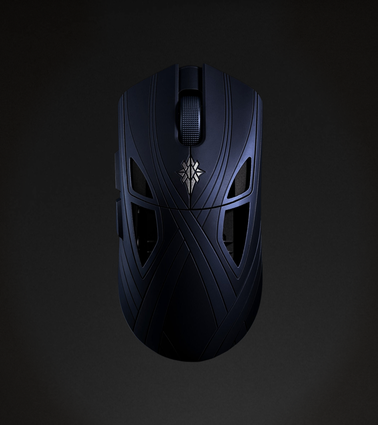
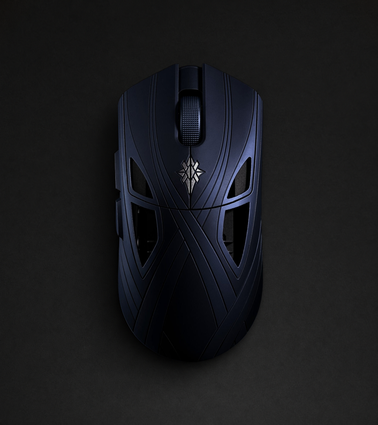
Give Nightfall mouse photo a natural contact shadow

Changed region(s): [[0.291, 0.5506, 0.582, 0.8871]]

diff --git a/script.js b/script.js
@@ -11,7 +11,7 @@ const SIMPLE_GAMES_GID = '1303529120';
 const COMPLEX_GAMES_GID = '1556084448';
 const MICE_GID = '1727287959';
 const MOUSEPADS_GID = '929203458';
-const MOUSE_ASSET_VERSION = '1.0.1';
+const MOUSE_ASSET_VERSION = '1.0.2';
 const MOUSEPAD_ASSET_VERSION = '1.0.0';
 
 const GAME_POSTER_OVERRIDES = {

diff --git a/index.html b/index.html
@@ -322,6 +322,6 @@
   </main>
 
   <script src="https://cdnjs.cloudflare.com/ajax/libs/PapaParse/5.4.1/papaparse.min.js"></script>
-  <script src="script.js?v=1.1.1"></script>
+  <script src="script.js?v=1.1.2"></script>
 </body>
 </html>
